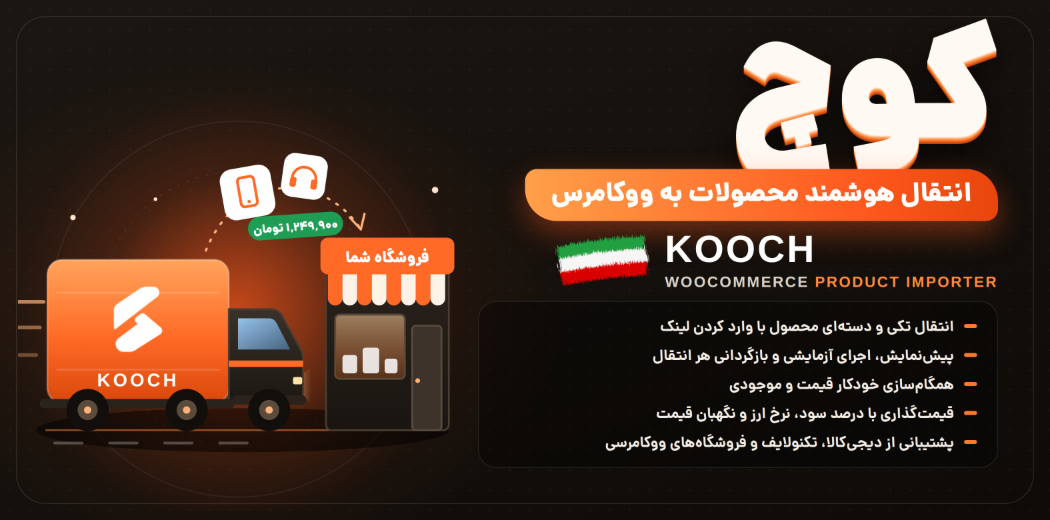
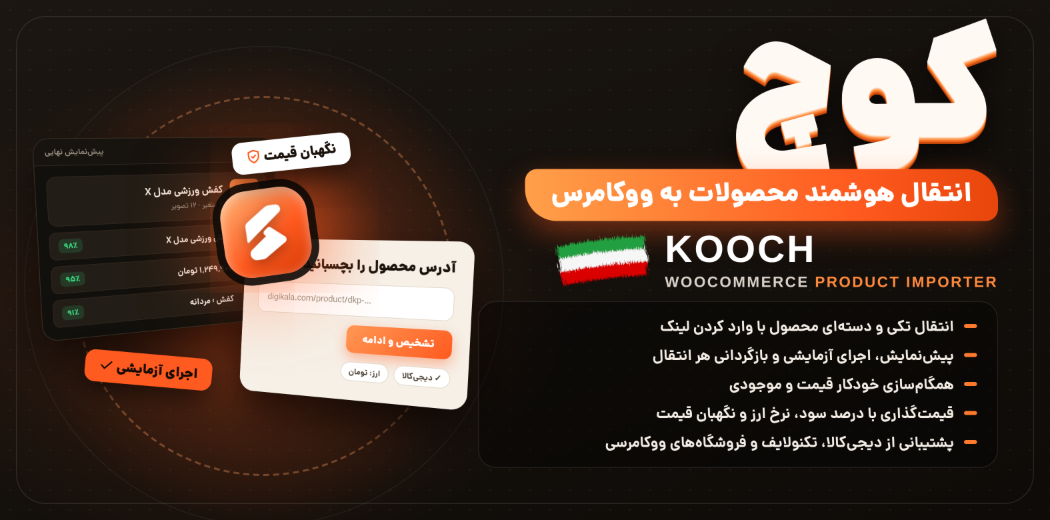
Kooch cover: UI panels as hero vector in RTL layout
Claude-Session: https://claude.ai/code/session_01HjGiyHhZHcoV6ExRpRRqKD

diff --git a/kooch-showcase/cover.html b/kooch-showcase/cover.html
@@ -20,60 +20,47 @@ h1{font-size:138px;font-weight:950;line-height:1.05;color:#fff9f3;letter-spacing
 ul{list-style:none;margin-top:10px;background:rgba(0,0,0,.32);border:1px solid rgba(255,255,255,.09);border-radius:18px;padding:10px 20px}
 li{color:#f4eee6;font-size:15px;font-weight:700;line-height:1;display:flex;align-items:center;gap:10px;padding:7px 0}
 li::before{content:"";width:13px;height:4px;border-radius:2px;background:#ff7a2d;flex:none}
-</style></head><body><div class="c"><div class="frame"></div><svg class="vec" viewBox="0 0 480 520" xmlns="http://www.w3.org/2000/svg">
-<defs>
-<filter id="white"><feFlood flood-color="#fff"/><feComposite in2="SourceAlpha" operator="in"/></filter>
-<radialGradient id="gl"><stop offset="0" stop-color="#ff5a1f" stop-opacity=".7"/><stop offset=".6" stop-color="#ff5a1f" stop-opacity=".12"/><stop offset="1" stop-color="#ff5a1f" stop-opacity="0"/></radialGradient>
-<linearGradient id="cargo" x1="0" y1="0" x2="0" y2="1"><stop offset="0" stop-color="#ffa45c"/><stop offset=".55" stop-color="#ff6a26"/><stop offset="1" stop-color="#d9480c"/></linearGradient>
-<linearGradient id="cab" x1="0" y1="0" x2="0" y2="1"><stop offset="0" stop-color="#3a322a"/><stop offset="1" stop-color="#1c1712"/></linearGradient>
-<linearGradient id="glass" x1="0" y1="0" x2="1" y2="1"><stop offset="0" stop-color="#9fd3ff" stop-opacity=".9"/><stop offset="1" stop-color="#4a6a8a" stop-opacity=".9"/></linearGradient>
-<linearGradient id="shop" x1="0" y1="0" x2="0" y2="1"><stop offset="0" stop-color="#2e261f"/><stop offset="1" stop-color="#1a1511"/></linearGradient>
-<linearGradient id="win" x1="0" y1="0" x2="0" y2="1"><stop offset="0" stop-color="#ffcf9e" stop-opacity=".55"/><stop offset="1" stop-color="#ff7a2d" stop-opacity=".25"/></linearGradient>
-<linearGradient id="beam" x1="0" y1="0" x2="1" y2="0"><stop offset="0" stop-color="#ffe2a8" stop-opacity=".55"/><stop offset="1" stop-color="#ffe2a8" stop-opacity="0"/></linearGradient>
-</defs>
-<circle cx="240" cy="300" r="240" fill="url(#gl)"/>
-<g fill="none" stroke="#fff" stroke-opacity=".06" stroke-width="1.5"><circle cx="240" cy="300" r="205"/><circle cx="240" cy="300" r="150" stroke-dasharray="3 8"/></g>
-<!-- ground -->
-<ellipse cx="245" cy="432" rx="225" ry="24" fill="#000" fill-opacity=".5"/>
-<line x1="30" y1="432" x2="460" y2="432" stroke="#ff8a3d" stroke-opacity=".5" stroke-width="2"/>
-<g stroke="#fff" stroke-opacity=".25" stroke-width="3" stroke-linecap="round"><line x1="40" y1="446" x2="70" y2="446"/><line x1="100" y1="446" x2="130" y2="446"/><line x1="160" y1="446" x2="190" y2="446"/><line x1="220" y1="446" x2="250" y2="446"/></g>
-<g transform="translate(8 0)"><!-- shop -->
-<rect x="328" y="226" width="134" height="206" rx="6" fill="url(#shop)" stroke="#4a3e32" stroke-width="2"/>
-<rect x="322" y="222" width="146" height="40" rx="8" fill="#ff6a26"/>
-<text x="395" y="249" text-anchor="middle" font-family="Dana" font-weight="900" font-size="17" fill="#fff">فروشگاه شما</text>
-<path d="M330 262 h16 v26 a8 8 0 0 1 -16 0z" fill="#ff6a26"/><path d="M346 262 h16 v26 a8 8 0 0 1 -16 0z" fill="#fff3e8"/><path d="M362 262 h16 v26 a8 8 0 0 1 -16 0z" fill="#ff6a26"/><path d="M378 262 h16 v26 a8 8 0 0 1 -16 0z" fill="#fff3e8"/><path d="M394 262 h16 v26 a8 8 0 0 1 -16 0z" fill="#ff6a26"/><path d="M410 262 h16 v26 a8 8 0 0 1 -16 0z" fill="#fff3e8"/><path d="M426 262 h16 v26 a8 8 0 0 1 -16 0z" fill="#ff6a26"/><path d="M442 262 h16 v26 a8 8 0 0 1 -16 0z" fill="#fff3e8"/>
-<rect x="338" y="306" width="76" height="70" rx="5" fill="url(#win)" stroke="#5a4b3c" stroke-width="2"/>
-<g fill="#fff" fill-opacity=".85"><rect x="346" y="350" width="16" height="20" rx="3"/><rect x="368" y="342" width="18" height="28" rx="3"/><rect x="392" y="354" width="14" height="16" rx="3"/></g>
-<rect x="422" y="318" width="32" height="114" rx="4" fill="#3d332a" stroke="#5a4b3c" stroke-width="2"/><circle cx="428" cy="378" r="2.6" fill="#ffb27a"/>
-</g><!-- route + flying products -->
-<path d="M205 236 C 240 150, 330 150, 372 210" fill="none" stroke="#ffb27a" stroke-width="2.5" stroke-dasharray="2 9" stroke-linecap="round"/>
-<path d="M362 200 l12 13 l4 -17" fill="none" stroke="#ffb27a" stroke-width="2.5" stroke-linecap="round" stroke-linejoin="round"/>
-<g transform="translate(218 150) rotate(-10)"><rect width="56" height="56" rx="13" fill="#fff"/><rect x="19" y="11" width="18" height="32" rx="4" fill="none" stroke="#ff6a26" stroke-width="3"/><circle cx="28" cy="38" r="1.8" fill="#ff6a26"/></g>
-<g transform="translate(292 128) rotate(8)"><rect width="48" height="48" rx="12" fill="#fff"/><path d="M11 27a13 13 0 0 1 26 0" fill="none" stroke="#ff6a26" stroke-width="3"/><rect x="9" y="26" width="7" height="11" rx="2.5" fill="#ff6a26"/><rect x="32" y="26" width="7" height="11" rx="2.5" fill="#ff6a26"/></g>
-<g transform="translate(250 200) rotate(-4)"><rect width="104" height="26" rx="13" fill="#1f9d55"/><text x="52" y="18" text-anchor="middle" font-family="Dana" font-weight="900" font-size="13" fill="#fff">۱٬۲۴۹٬۹۰۰ تومان</text></g>
-<g transform="translate(-16 0)"><!-- speed lines -->
-<g stroke="#ffb27a" stroke-linecap="round" stroke-width="4"><line x1="4" y1="292" x2="44" y2="292" stroke-opacity=".7"/><line x1="16" y1="320" x2="40" y2="320" stroke-opacity=".5"/><line x1="0" y1="350" x2="36" y2="350" stroke-opacity=".35"/></g>
-<!-- headlight beam -->
-<polygon points="314,378 336,364 336,404" fill="url(#beam)"/>
-<!-- truck cargo -->
-<rect x="48" y="246" width="198" height="156" rx="16" fill="url(#cargo)"/>
-<rect x="48" y="246" width="198" height="156" rx="16" fill="none" stroke="#fff" stroke-opacity=".25" stroke-width="2"/>
-<g stroke="#fff" stroke-opacity=".14" stroke-width="2"><line x1="58" y1="282" x2="236" y2="282"/><line x1="58" y1="366" x2="236" y2="366"/></g>
-<g transform="translate(110 274)"><image href="kooch-icon.png" width="74" height="74" filter="url(#white)"/></g>
-<text x="147" y="384" text-anchor="middle" font-family="Arial Black,Arial" font-weight="900" font-size="20" fill="#fff" letter-spacing="3">KOOCH</text>
-<!-- cab -->
-<path d="M246 300 h46 q8 0 12 7 l20 36 q3 5 3 11 v40 q0 8 -8 8 h-73z" fill="url(#cab)" stroke="#4a3e32" stroke-width="2"/>
-<path d="M256 310 h34 q5 0 8 5 l15 29 h-57z" fill="url(#glass)"/>
-<rect x="246" y="356" width="81" height="7" fill="#ff6a26"/>
-<rect x="316" y="374" width="10" height="8" rx="2" fill="#ffe2a8"/>
-<rect x="250" y="394" width="80" height="10" rx="4" fill="#2a231c"/>
-<rect x="40" y="398" width="212" height="10" rx="4" fill="#2a231c"/>
-<!-- wheels -->
-<g><circle cx="92" cy="410" r="23" fill="#120e0b"/><circle cx="92" cy="410" r="11" fill="#5a4b3c"/><circle cx="92" cy="410" r="4" fill="#ffb27a"/></g>
-<g><circle cx="200" cy="410" r="23" fill="#120e0b"/><circle cx="200" cy="410" r="11" fill="#5a4b3c"/><circle cx="200" cy="410" r="4" fill="#ffb27a"/></g>
-<g><circle cx="290" cy="410" r="23" fill="#120e0b"/><circle cx="290" cy="410" r="11" fill="#5a4b3c"/><circle cx="290" cy="410" r="4" fill="#ffb27a"/></g>
-</g><g fill="#ffe3cc"><circle cx="60" cy="200" r="3"/><circle cx="455" cy="170" r="3.5"/><circle cx="150" cy="180" r="2"/></g>
-</svg>
+
+.glow{position:absolute;left:24px;top:46px;width:480px;height:480px;border-radius:50%;background:radial-gradient(closest-side,rgba(255,90,31,.55),rgba(255,90,31,.12) 60%,transparent)}
+.ring{position:absolute;left:74px;top:96px;width:380px;height:380px;border-radius:50%;border:2px dashed rgba(255,160,100,.35)}
+.ring.r2{left:24px;top:46px;width:480px;height:480px;border:1.5px solid rgba(255,255,255,.06)}
+.stage{position:absolute;left:40px;top:112px;width:680px;height:480px;direction:ltr;transform:scale(.64);transform-origin:top left}
+.stage .p{position:absolute;border-radius:24px;overflow:hidden;box-shadow:0 30px 70px rgba(0,0,0,.7)}
+.stage .dark{left:0;top:40px;width:390px;height:300px;direction:rtl;background:#12100c;border:1px solid #3a3126;transform:perspective(900px) rotateY(16deg) rotate(-3deg)}
+.stage .light{left:300px;top:200px;width:370px;height:250px;direction:rtl;background:#f6f0e7;color:#1a120b;transform:perspective(900px) rotateY(-16deg) rotate(3deg);padding:24px 26px}
+.stage .bar{display:flex;gap:6px;align-items:center;padding:11px 16px;background:#17130e;border-bottom:1px solid #30281f;font-size:12px;color:#a39a8c}
+.stage .bar i{width:9px;height:9px;border-radius:50%;background:#3a3126}.stage .bar i:first-child{background:#ff5a1f}.stage .bar b{margin-inline-start:auto;font-weight:600}
+.stage .b{padding:16px;display:flex;flex-direction:column;gap:9px;color:#f6f1ea}
+.stage .prod{display:flex;gap:12px;align-items:center;background:#221d16;border:1px solid #30281f;border-radius:14px;padding:10px 12px}
+.stage .im{width:52px;height:52px;border-radius:10px;background:linear-gradient(135deg,#ff9a55,#ff5a1f);display:grid;place-items:center;color:#fff}
+.stage .im .i{width:26px;height:26px}
+.stage .fld{display:flex;align-items:center;gap:10px;background:#221d16;border:1px solid #30281f;border-radius:10px;padding:9px 12px;font-size:13.5px}
+.stage .fld .l{color:#a39a8c;width:44px}.stage .fld .v{flex:1;font-weight:700}
+.stage .cf{font-size:11.5px;font-weight:800;padding:2px 8px;border-radius:7px;background:rgba(61,220,132,.15);color:#3ddc84}
+.stage h3{font-size:22px;font-weight:900;margin-bottom:14px}
+.stage .in{background:#fff;border:1px solid #e2d8c9;border-radius:14px;padding:14px 16px;color:#8a7f70;font-size:14px;direction:ltr;text-align:left}
+.stage .cta{display:inline-block;margin-top:14px;background:linear-gradient(135deg,#ff9a55,#ff5a1f);color:#fff;font-weight:900;padding:10px 26px;border-radius:12px;font-size:16px;box-shadow:0 8px 20px rgba(255,90,31,.4)}
+.stage .det{display:flex;gap:8px;margin-top:14px}
+.stage .det span{background:#fff;border:1px solid #e2d8c9;border-radius:99px;padding:5px 12px;font-size:12.5px;color:#4a3f31;font-weight:700}
+.stage .core{position:absolute;left:285px;top:120px;width:136px;height:136px;border-radius:42px;background:linear-gradient(145deg,#ffb87a,#ff5a1f 58%,#d63a06);display:grid;place-items:center;box-shadow:0 0 0 12px rgba(14,11,8,.9),0 0 120px 20px rgba(255,90,31,.75),inset 0 5px 18px rgba(255,255,255,.45);transform:rotate(-8deg);z-index:5}
+.stage .core img{width:86px;filter:brightness(0) invert(1) drop-shadow(0 6px 10px rgba(0,0,0,.3))}
+.stage .chip{position:absolute;background:#fff;color:#1a120b;font-weight:900;font-size:21px;padding:10px 22px;border-radius:16px;box-shadow:0 14px 40px rgba(0,0,0,.55);z-index:6;white-space:nowrap}
+.stage .chip .i{width:1.1em;height:1.1em;vertical-align:-.2em;fill:none;stroke:#ff5a1f;stroke-width:2.3;stroke-linecap:round;stroke-linejoin:round}
+.stage .c1{left:300px;top:40px;transform:rotate(-6deg)}
+.stage .c2{left:70px;top:378px;transform:rotate(5deg);background:#ff5a1f;color:#160b04}.stage .c2 .i{stroke:#160b04}
+</style></head><body><svg width="0" height="0" style="position:absolute" aria-hidden="true"><symbol id="i-link" viewBox="0 0 24 24"><path d="M10 13a5 5 0 0 0 7.5.5l3-3a5 5 0 0 0-7-7l-1.7 1.7"/><path d="M14 11a5 5 0 0 0-7.5-.5l-3 3a5 5 0 0 0 7 7l1.7-1.7"/></symbol><symbol id="i-eye" viewBox="0 0 24 24"><path d="M2 12s3.6-7 10-7 10 7 10 7-3.6 7-10 7S2 12 2 12z"/><circle cx="12" cy="12" r="3"/></symbol><symbol id="i-box" viewBox="0 0 24 24"><path d="M21 8 12 3 3 8v8l9 5 9-5z"/><path d="M3 8l9 5 9-5M12 13v8"/></symbol><symbol id="i-globe" viewBox="0 0 24 24"><circle cx="12" cy="12" r="10"/><path d="M2 12h20M12 2a15 15 0 0 1 0 20M12 2a15 15 0 0 0 0 20"/></symbol><symbol id="i-target" viewBox="0 0 24 24"><circle cx="12" cy="12" r="10"/><circle cx="12" cy="12" r="6"/><circle cx="12" cy="12" r="2"/></symbol><symbol id="i-cog" viewBox="0 0 24 24"><circle cx="12" cy="12" r="3"/><path d="M19.4 15a1.7 1.7 0 0 0 .3 1.8l.1.1a2 2 0 1 1-2.8 2.8l-.1-.1a1.7 1.7 0 0 0-1.8-.3 1.7 1.7 0 0 0-1 1.5V21a2 2 0 1 1-4 0v-.1a1.7 1.7 0 0 0-1.1-1.5 1.7 1.7 0 0 0-1.8.3l-.1.1a2 2 0 1 1-2.8-2.8l.1-.1a1.7 1.7 0 0 0 .3-1.8 1.7 1.7 0 0 0-1.5-1H3a2 2 0 1 1 0-4h.1a1.7 1.7 0 0 0 1.5-1.1 1.7 1.7 0 0 0-.3-1.8l-.1-.1a2 2 0 1 1 2.8-2.8l.1.1a1.7 1.7 0 0 0 1.8.3H9a1.7 1.7 0 0 0 1-1.5V3a2 2 0 1 1 4 0v.1a1.7 1.7 0 0 0 1 1.5 1.7 1.7 0 0 0 1.8-.3l.1-.1a2 2 0 1 1 2.8 2.8l-.1.1a1.7 1.7 0 0 0-.3 1.8V9a1.7 1.7 0 0 0 1.5 1H21a2 2 0 1 1 0 4h-.1a1.7 1.7 0 0 0-1.5 1z"/></symbol><symbol id="i-coins" viewBox="0 0 24 24"><circle cx="8" cy="8" r="6"/><path d="M18.1 10.4A6 6 0 1 1 10.4 18.1M7 6h1v4"/></symbol><symbol id="i-shield" viewBox="0 0 24 24"><path d="M12 22s8-4 8-10V5l-8-3-8 3v7c0 6 8 10 8 10z"/><path d="m9 12 2 2 4-4"/></symbol><symbol id="i-refresh" viewBox="0 0 24 24"><path d="M21 12a9 9 0 0 0-15.5-6.3L3 8"/><path d="M3 3v5h5"/><path d="M3 12a9 9 0 0 0 15.5 6.3L21 16"/><path d="M16 16h5v5"/></symbol><symbol id="i-lock" viewBox="0 0 24 24"><rect x="4" y="11" width="16" height="10" rx="2"/><path d="M8 11V7a4 4 0 0 1 8 0v4"/></symbol><symbol id="i-undo" viewBox="0 0 24 24"><path d="M9 14 4 9l5-5"/><path d="M4 9h10a6 6 0 0 1 0 12h-3"/></symbol><symbol id="i-alert" viewBox="0 0 24 24"><path d="M10.3 3.9 1.8 18a2 2 0 0 0 1.7 3h17a2 2 0 0 0 1.7-3L13.7 3.9a2 2 0 0 0-3.4 0z"/><path d="M12 9v4M12 17h.01"/></symbol><symbol id="i-bell" viewBox="0 0 24 24"><path d="M18 8a6 6 0 0 0-12 0c0 7-3 9-3 9h18s-3-2-3-9"/><path d="M13.7 21a2 2 0 0 1-3.4 0"/></symbol><symbol id="i-mail" viewBox="0 0 24 24"><rect x="2" y="4" width="20" height="16" rx="2"/><path d="m22 7-10 6L2 7"/></symbol><symbol id="i-send" viewBox="0 0 24 24"><path d="m22 2-7 20-4-9-9-4z"/><path d="M22 2 11 13"/></symbol><symbol id="i-chat" viewBox="0 0 24 24"><path d="M21 15a2 2 0 0 1-2 2H7l-4 4V5a2 2 0 0 1 2-2h14a2 2 0 0 1 2 2z"/></symbol><symbol id="i-hook" viewBox="0 0 24 24"><circle cx="12" cy="5" r="3"/><path d="M12 8v5a4 4 0 0 0 8 0M20 13h-3"/><circle cx="5" cy="17" r="3"/><path d="M5 14c0-3 3-6 7-6"/></symbol><symbol id="i-spark" viewBox="0 0 24 24"><path d="M12 3l1.9 5.1L19 10l-5.1 1.9L12 17l-1.9-5.1L5 10l5.1-1.9z"/><path d="M19 15l.7 1.8L21.5 17.5l-1.8.7L19 20l-.7-1.8-1.8-.7 1.8-.7z"/></symbol><symbol id="i-check" viewBox="0 0 24 24"><path d="M20 6 9 17l-5-5"/></symbol><symbol id="i-lang" viewBox="0 0 24 24"><path d="m5 8 6 6M4 14l6-6 2-3M2 5h12M7 2h1M22 22l-5-10-5 10M14 18h6"/></symbol></svg>
+<div class="c"><div class="frame"></div><div class="glow"></div><div class="ring"></div><div class="ring r2"></div>
+<div class="stage">
+ <div class="p dark"><div class="bar"><i></i><i></i><i></i><b>پیشنمایش نهایی</b></div><div class="b">
+  <div class="prod"><div class="im"><svg class="i"><use href="#i-box"/></svg></div><div style="flex:1"><b style="font-size:16px">کفش ورزشی مدل X</b><div style="font-size:12px;color:#a39a8c;margin-top:3px">۴ متغیر · ۱۲ تصویر</div></div></div>
+  <div class="fld"><span class="l">عنوان</span><span class="v">کفش ورزشی مدل X</span><span class="cf">۹۸٪</span></div>
+  <div class="fld"><span class="l">قیمت</span><span class="v">۱٬۲۴۹٬۹۰۰ تومان</span><span class="cf">۹۵٪</span></div>
+  <div class="fld"><span class="l">دسته</span><span class="v">کفش › مردانه</span><span class="cf">۹۱٪</span></div></div></div>
+ <div class="p light"><h3>آدرس محصول را بچسبانید</h3><div class="in">digikala.com/product/dkp-…</div><div class="cta">تشخیص و ادامه</div><div class="det"><span>✓ دیجیکالا</span><span>ارز: تومان</span></div></div>
+ <div class="core"><img src="kooch-icon.png" alt=""></div>
+ <div class="chip c1"><svg class="i"><use href="#i-shield"/></svg> نگهبان قیمت</div>
+ <div class="chip c2"><svg class="i"><use href="#i-check"/></svg> اجرای آزمایشی</div>
+</div>
 <div class="r"><h1>کوچ</h1><div class="ban">انتقال هوشمند محصولات به ووکامرس</div>
 <div class="en"><svg class="flag" viewBox="0 0 140 80"><defs><filter id="br" x="-10%" y="-20%" width="120%" height="140%"><feTurbulence type="fractalNoise" baseFrequency="1.2 .06" numOctaves="3" seed="7" result="n"/><feDisplacementMap in="SourceGraphic" in2="n" scale="12" xChannelSelector="R" yChannelSelector="G"/></filter></defs><g filter="url(#br)" transform="rotate(-7 70 40)"><path d="M10 14 Q70 8 130 14 L128 30 Q70 26 12 30Z" fill="#239f40"/><path d="M12 30 Q70 26 128 30 L130 48 Q70 44 10 48Z" fill="#f6f6f6"/><path d="M10 48 Q70 44 130 48 L126 66 Q70 62 14 66Z" fill="#da0000"/></g></svg><div class="t"><b>KOOCH</b><small>WOOCOMMERCE <em>PRODUCT IMPORTER</em></small></div></div>
 <ul><li>انتقال تکی و دستهای محصول با وارد کردن لینک</li><li>پیشنمایش، اجرای آزمایشی و بازگردانی هر انتقال</li><li>همگامسازی خودکار قیمت و موجودی</li><li>قیمتگذاری با درصد سود، نرخ ارز و نگهبان قیمت</li><li>پشتیبانی از دیجیکالا، تکنولایف و فروشگاههای ووکامرسی</li></ul></div></div></body></html>
